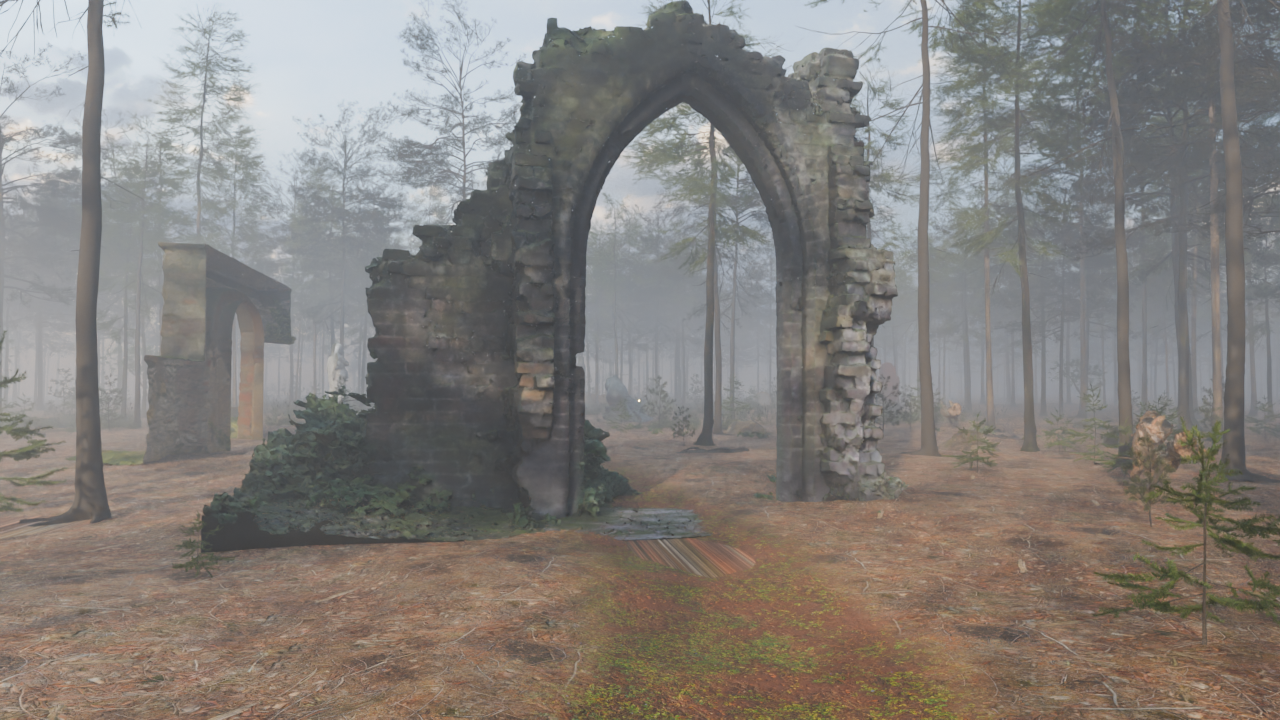
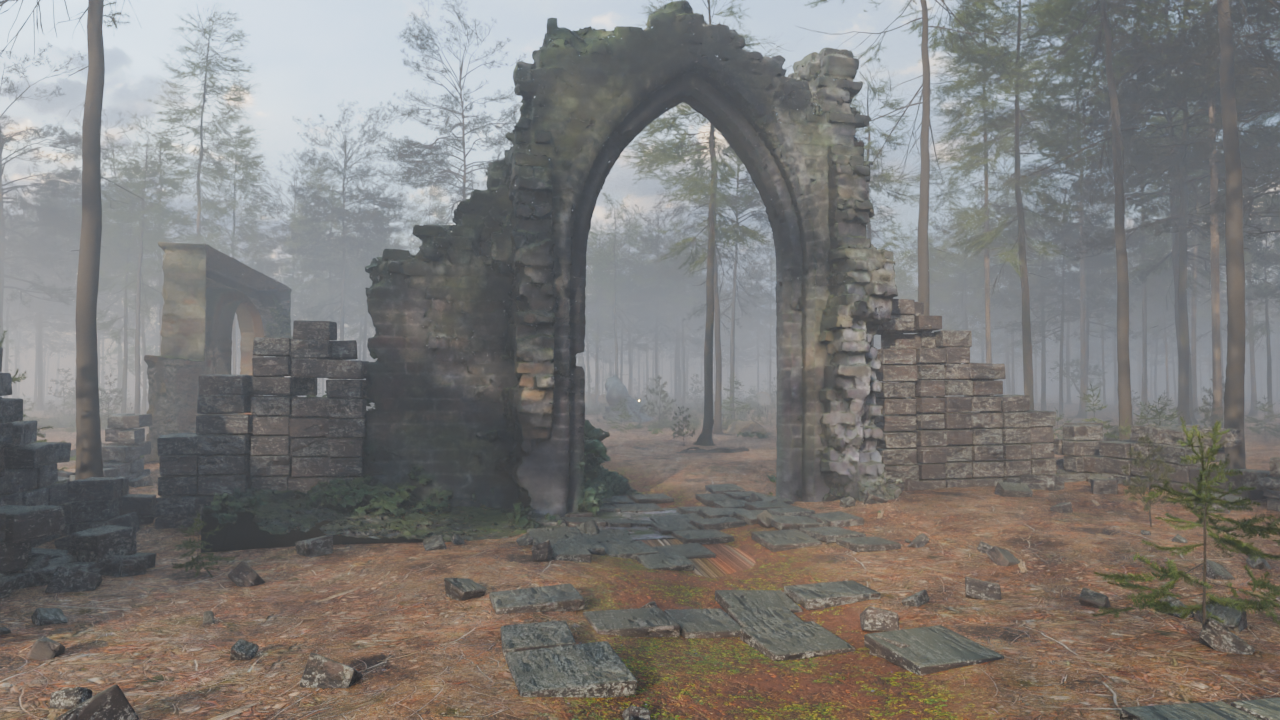
revamp G2 v09: ruined chapel around the arch (walls, rubble, flagstones); drop broken tower scan; cleaner ring/milestone views

diff --git a/docs/revamp/g2-scenes/structures_v09.html b/docs/revamp/g2-scenes/structures_v09.html
@@ -1,6 +1,6 @@
 <!doctype html><meta charset=utf-8><title>G2 · Forest v09: all 28 structures</title>
 <style>body{background:#0b0b0c;color:#ccc;font:15px/1.6 system-ui;margin:40px auto;max-width:1300px;padding:0 24px}h1,h2{font-weight:500}img{width:100%;display:block;border-radius:6px}.g{display:grid;grid-template-columns:1fr 1fr;gap:18px}.meta{color:#888;font-size:13px}li{margin:4px 0}</style>
-<h1>Gate 2 · Forest v09: all 28 structures, in 7 clusters</h1>
+<h1>Gate 2 · Forest v09: the structures, in 7 clusters</h1>
 <img src="forest_v09_FCAM_B.png">
 <p class=meta><b>The main view (unchanged composition).</b> The ruined arch and the milestones are now faint shapes in the mist beyond the fork angel. As with the statues, structures are dim from a distance and only reveal themselves up close.</p>
 <h2>The seven clusters, up close</h2>
@@ -8,15 +8,16 @@
 <div class=g>
 <div><img src="forest_v09_SCAM_landing.png"><p class=meta><b>Landing: lanterns.</b> First thing off the trail. Hurricane lanterns hang from three old posts and sit on the floor, with the five brass lamps on the tallest arm. Each one is lit; the glow is faint in daylight and will read far more on the site at dusk.</p></div>
 <div><img src="forest_v09_SCAM_earlier.png"><p class=meta><b>Earlier: wells and mirrors.</b> Left of the trail before the fork: the Venice well, the cheval mirror and the gilded mirror, with the Dinan well behind.</p></div>
-<div><img src="forest_v09_SCAM_stories.png"><p class=meta><b>Stories: the ruined arch.</b> It spans the main trail, so you walk through it, with the stone gate, garden folly and fortress arch around it.</p></div>
-<div><img src="forest_v09_SCAM_games.png"><p class=meta><b>Games: the stone ring.</b> Past the Grim Reaper at the end of the left branch: a Callanish-style ring in a clearing. The chess set is left mid-game on the concrete table, with the mossy stone table beside it. <i>(This camera has a trunk in frame; I'll find a cleaner angle.)</i></p></div>
-<div><img src="forest_v09_SCAM_work.png"><p class=meta><b>Work: the milestones.</b> Past the Black Angel at the end of the right branch. The Richmond stone's carved "VIII MILES" reads close up. <i>(This angle is a little far; an earlier one was better and I'll restore it.)</i></p></div>
+<div><img src="forest_v09_SCAM_stories.png"><p class=meta><b>Stories: the ruined chapel.</b> The arch is its west door and spans the main trail. The chapel's walls, built stone by stone, are broken down to stubs, the stones that fell from them lie where they dropped, and worn flagstones from the old floor run through the door. The stone gate and the fortress arch nearby keep the broken-off stubs of the walls they stood in. The broken tower scan is gone: only its front had been captured, with a slab of ground attached, so it couldn't be fixed.</p></div>
+<div><img src="forest_v09_SCAM_games.png"><p class=meta><b>Games: the stone ring.</b> Past the Grim Reaper at the end of the left branch: a Callanish-style ring in a clearing. The chess set is left mid-game on the concrete table, with the mossy stone table beside it.</p></div>
+<div><img src="forest_v09_SCAM_work.png"><p class=meta><b>Work: the milestones.</b> Past the Black Angel at the end of the right branch. The Richmond stone's carved "VIII MILES" reads close up.</p></div>
 <div><img src="forest_v09_SCAM_art.png"><p class=meta><b>Art: easels and a writing desk.</b> The crank easel in the middle, the paint-dripped easel beside it, and the typewriter on the desk.</p></div>
 <div><img src="forest_v09_SCAM_tools.png"><p class=meta><b>Tools: anvils and instruments.</b> The anvil on its mossy stump, the old anvil, the armillary sphere and the astrolabe.</p></div>
 </div>
 <h2>Notes</h2>
 <ul>
-<li>All 28 are scans or models under CC0 or CC-BY (credits list is in <code>g1-assets/structures.json</code>). Ten came in with "unlit" materials that would have glowed; they're now normal stone/wood/metal lit by the sun, weathered to match the statues.</li>
+<li>27 of the 28 are in (the tower scan was dropped, see Stories). They're all scans or models under CC0 or CC-BY (credits list is in <code>g1-assets/structures.json</code>). Ten came in with "unlit" materials that would have glowed; they're now normal stone/wood/metal lit by the sun, weathered to match the statues.</li>
 <li>Heavy scans were simplified (up to 1M faces down to 80k–150k each) with textures at 1K. On the site they get smaller versions again.</li>
+<li>The ruins' walls and fallen stones are built in Blender, textured with Poly Haven's CC0 <i>lichen_rock</i>.</li>
 <li>Memory: every render stayed under your 6 GB cap (2.8–4.6 GB). Each view only loads the trees, plants and structures the camera can see.</li>
 </ul>
